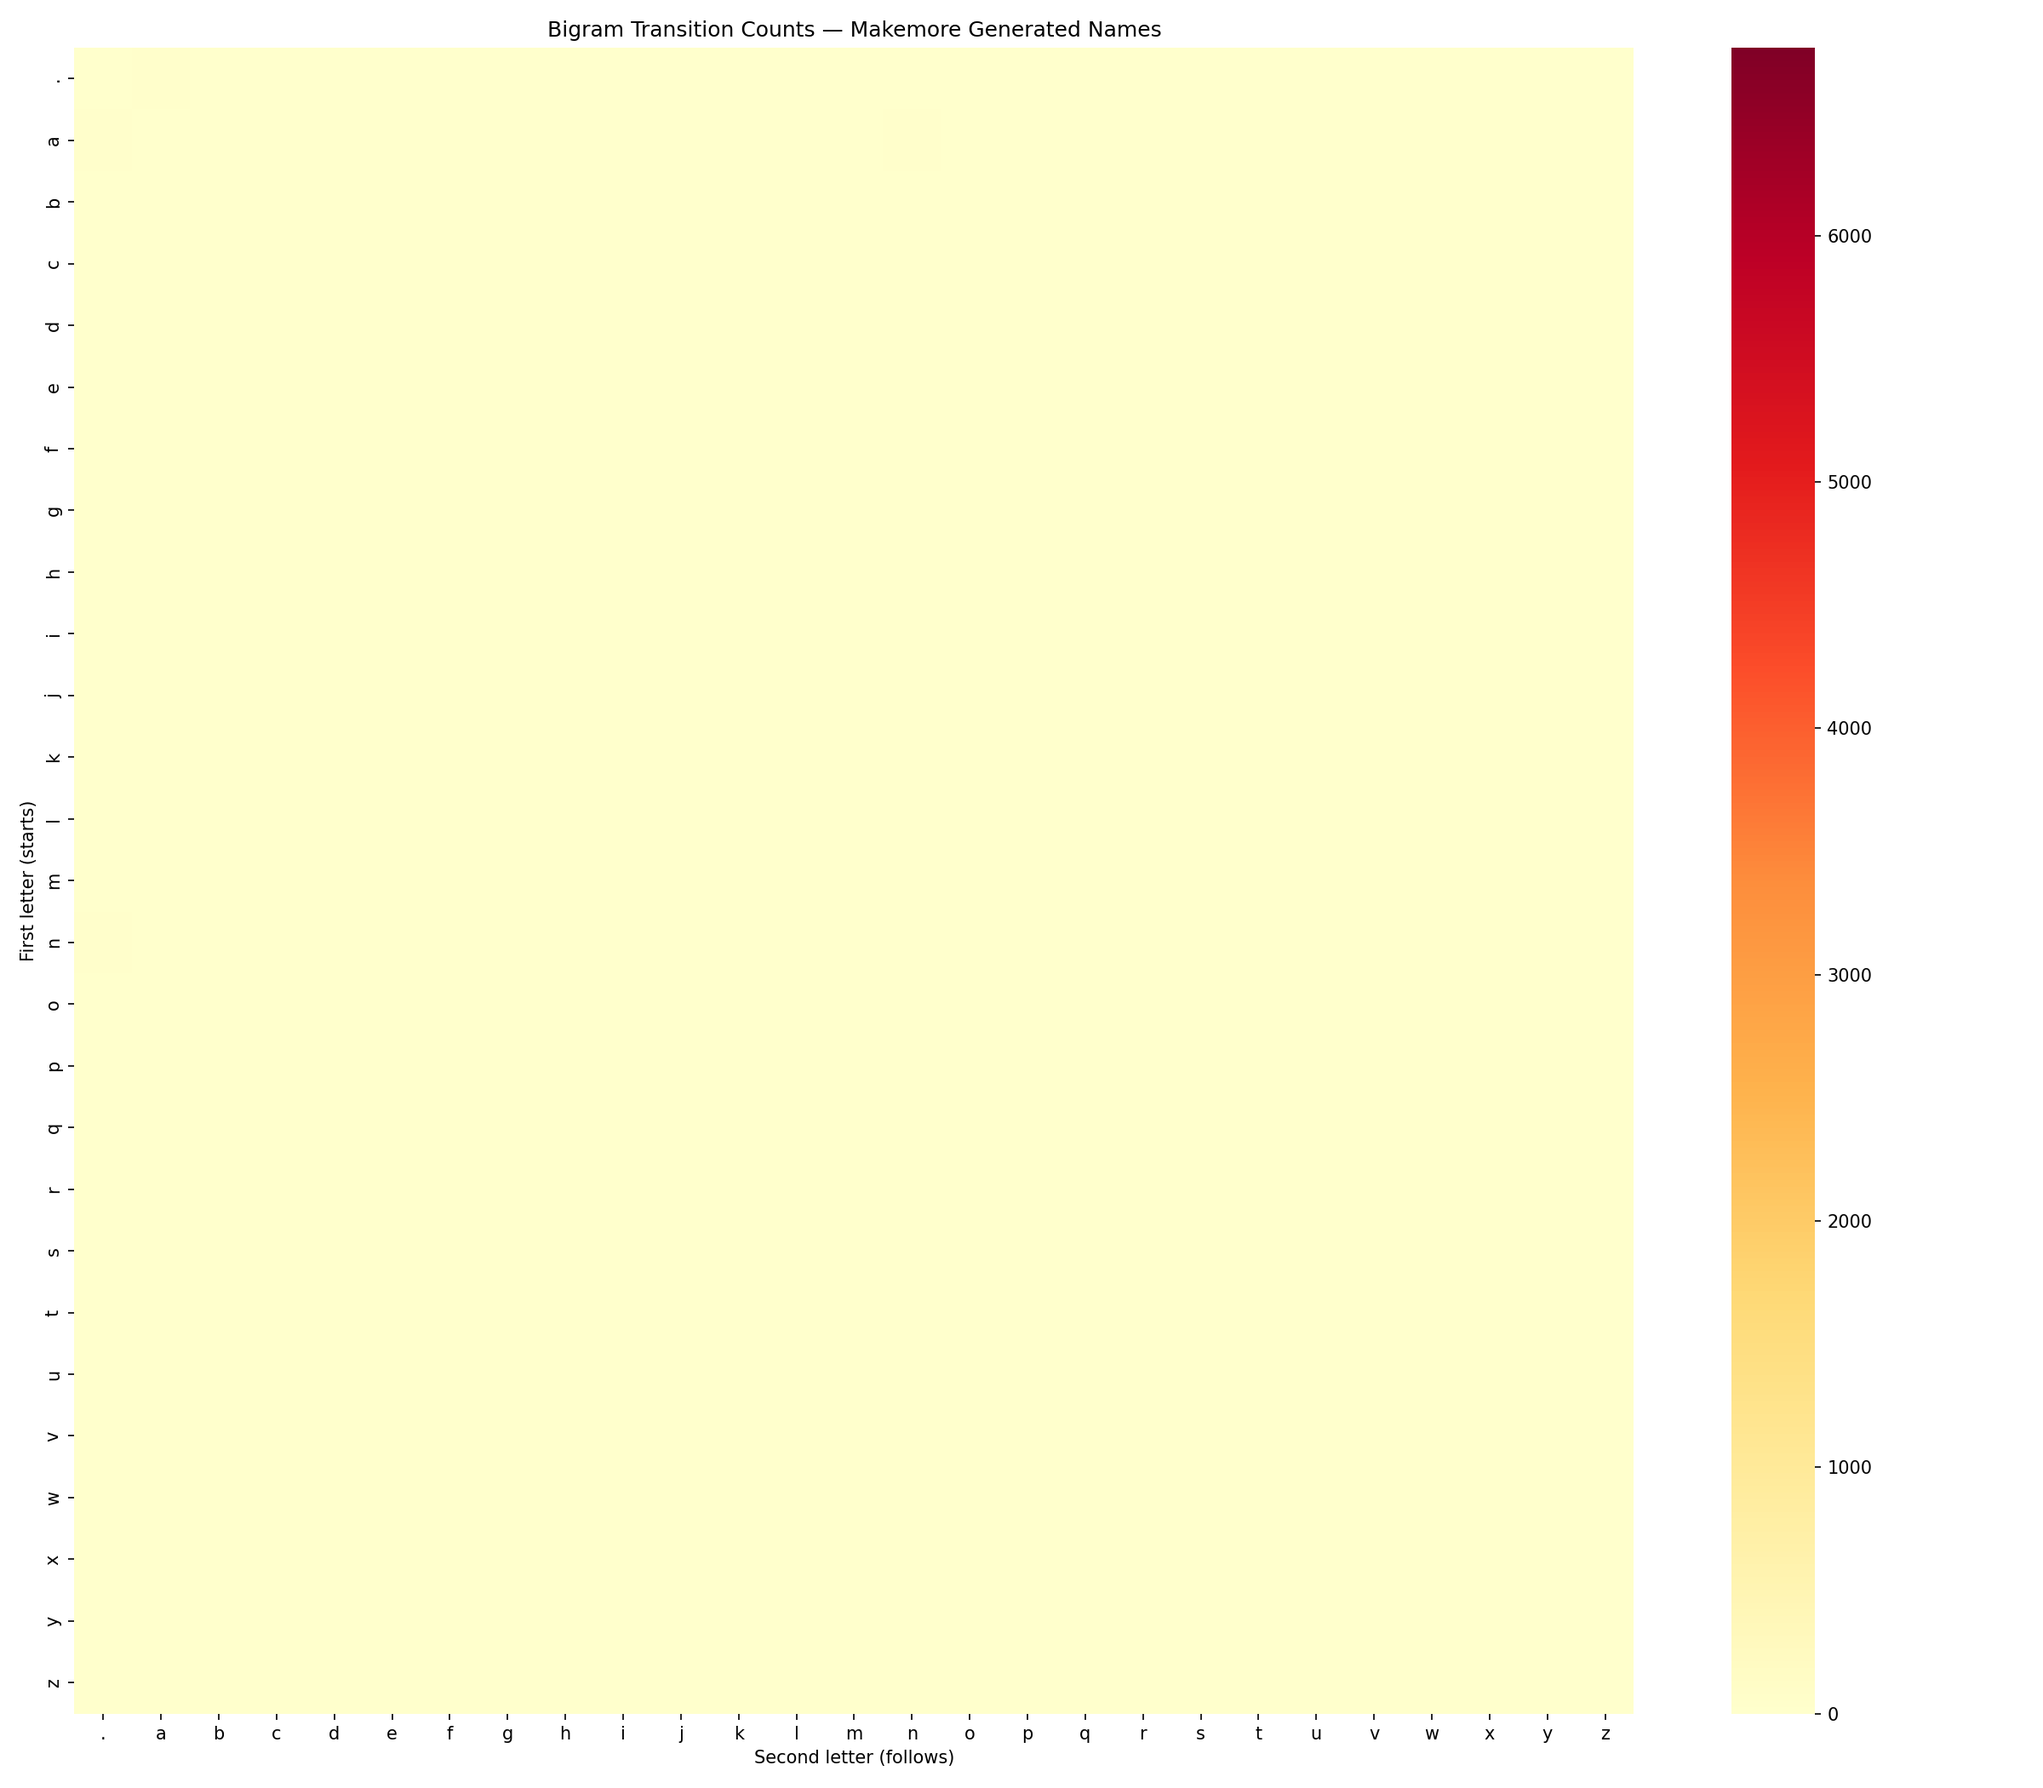
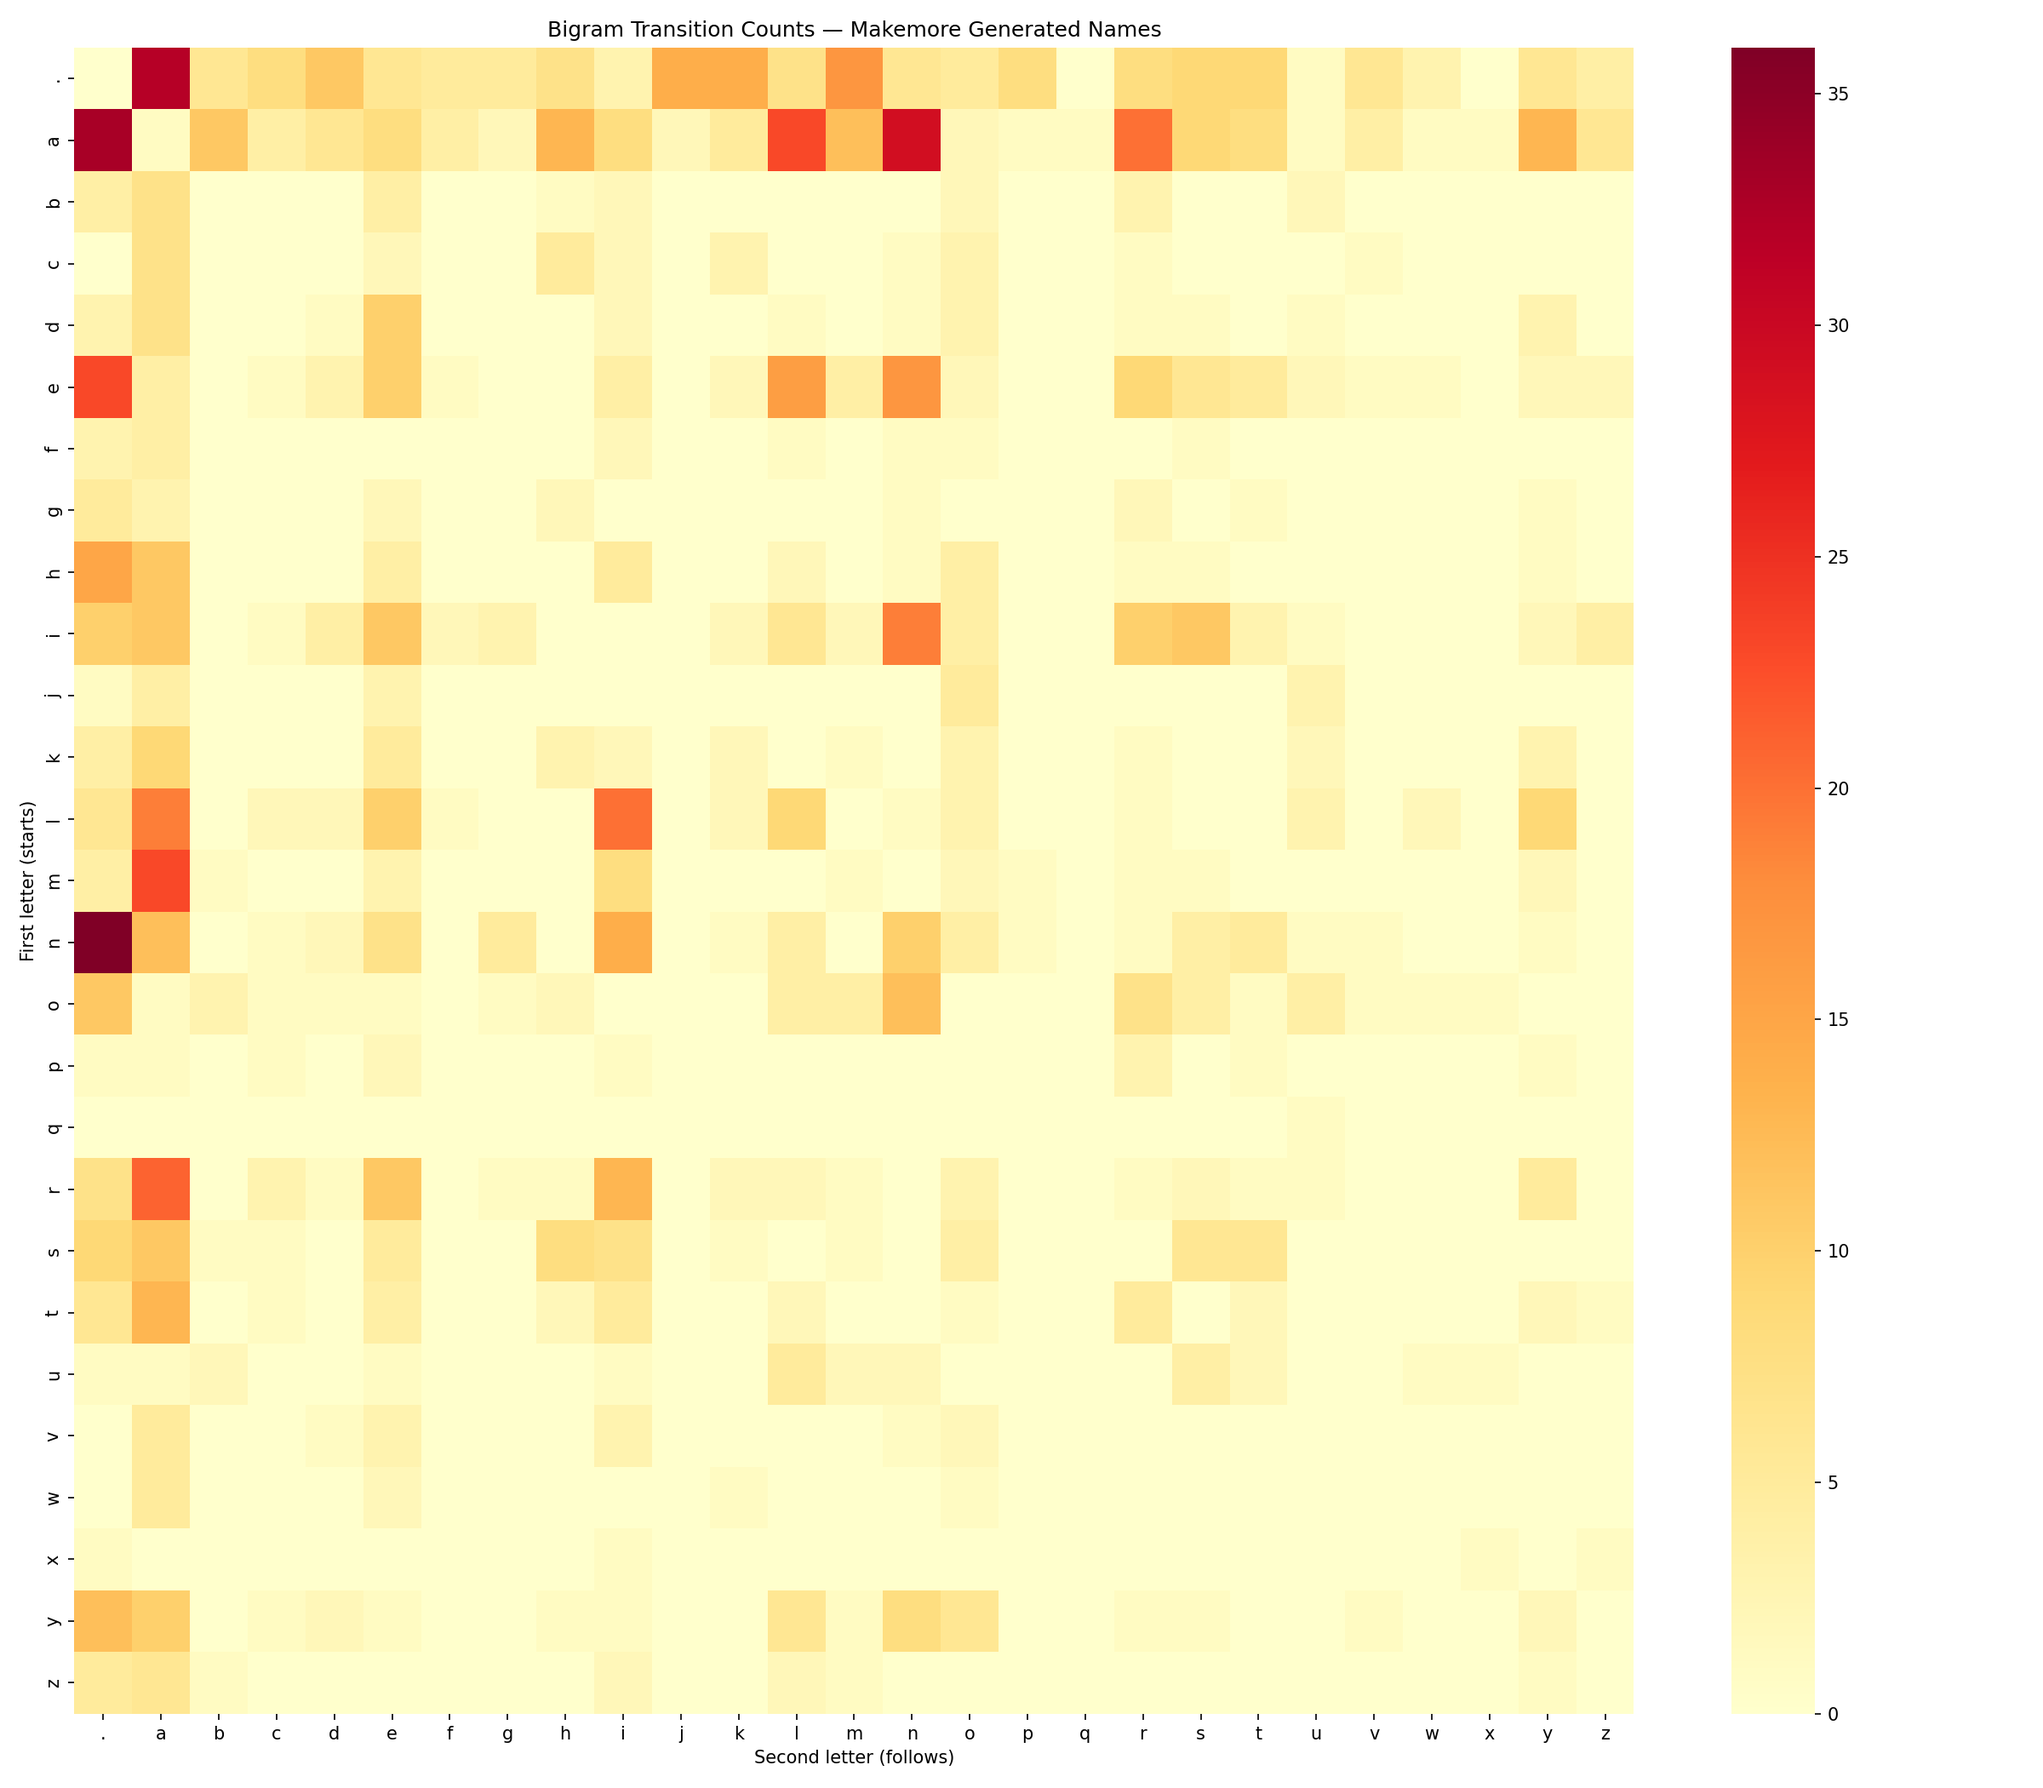
code: completed analysis w/ makemore names

diff --git a/analyze.py b/analyze.py
@@ -24,6 +24,13 @@ print('Saved output/heatmap_original.png')
 # Step 3: Generate 25 names using the statistical model
 row_sums = matrix.sum(axis=1, keepdims=True)
 prob_matrix = np.where(row_sums > 0, matrix / row_sums, 0.0)
+save_heatmap(
+    prob_matrix,
+    title='Bigram Transition Probabilities — Original Names',
+    filepath=os.path.join('output', 'heatmap_prob_original.png'),
+    vmax=float(prob_matrix.max()),
+)
+print('Saved output/heatmap_prob_original.png')
 
 generated = []
 while len(generated) < 25:
